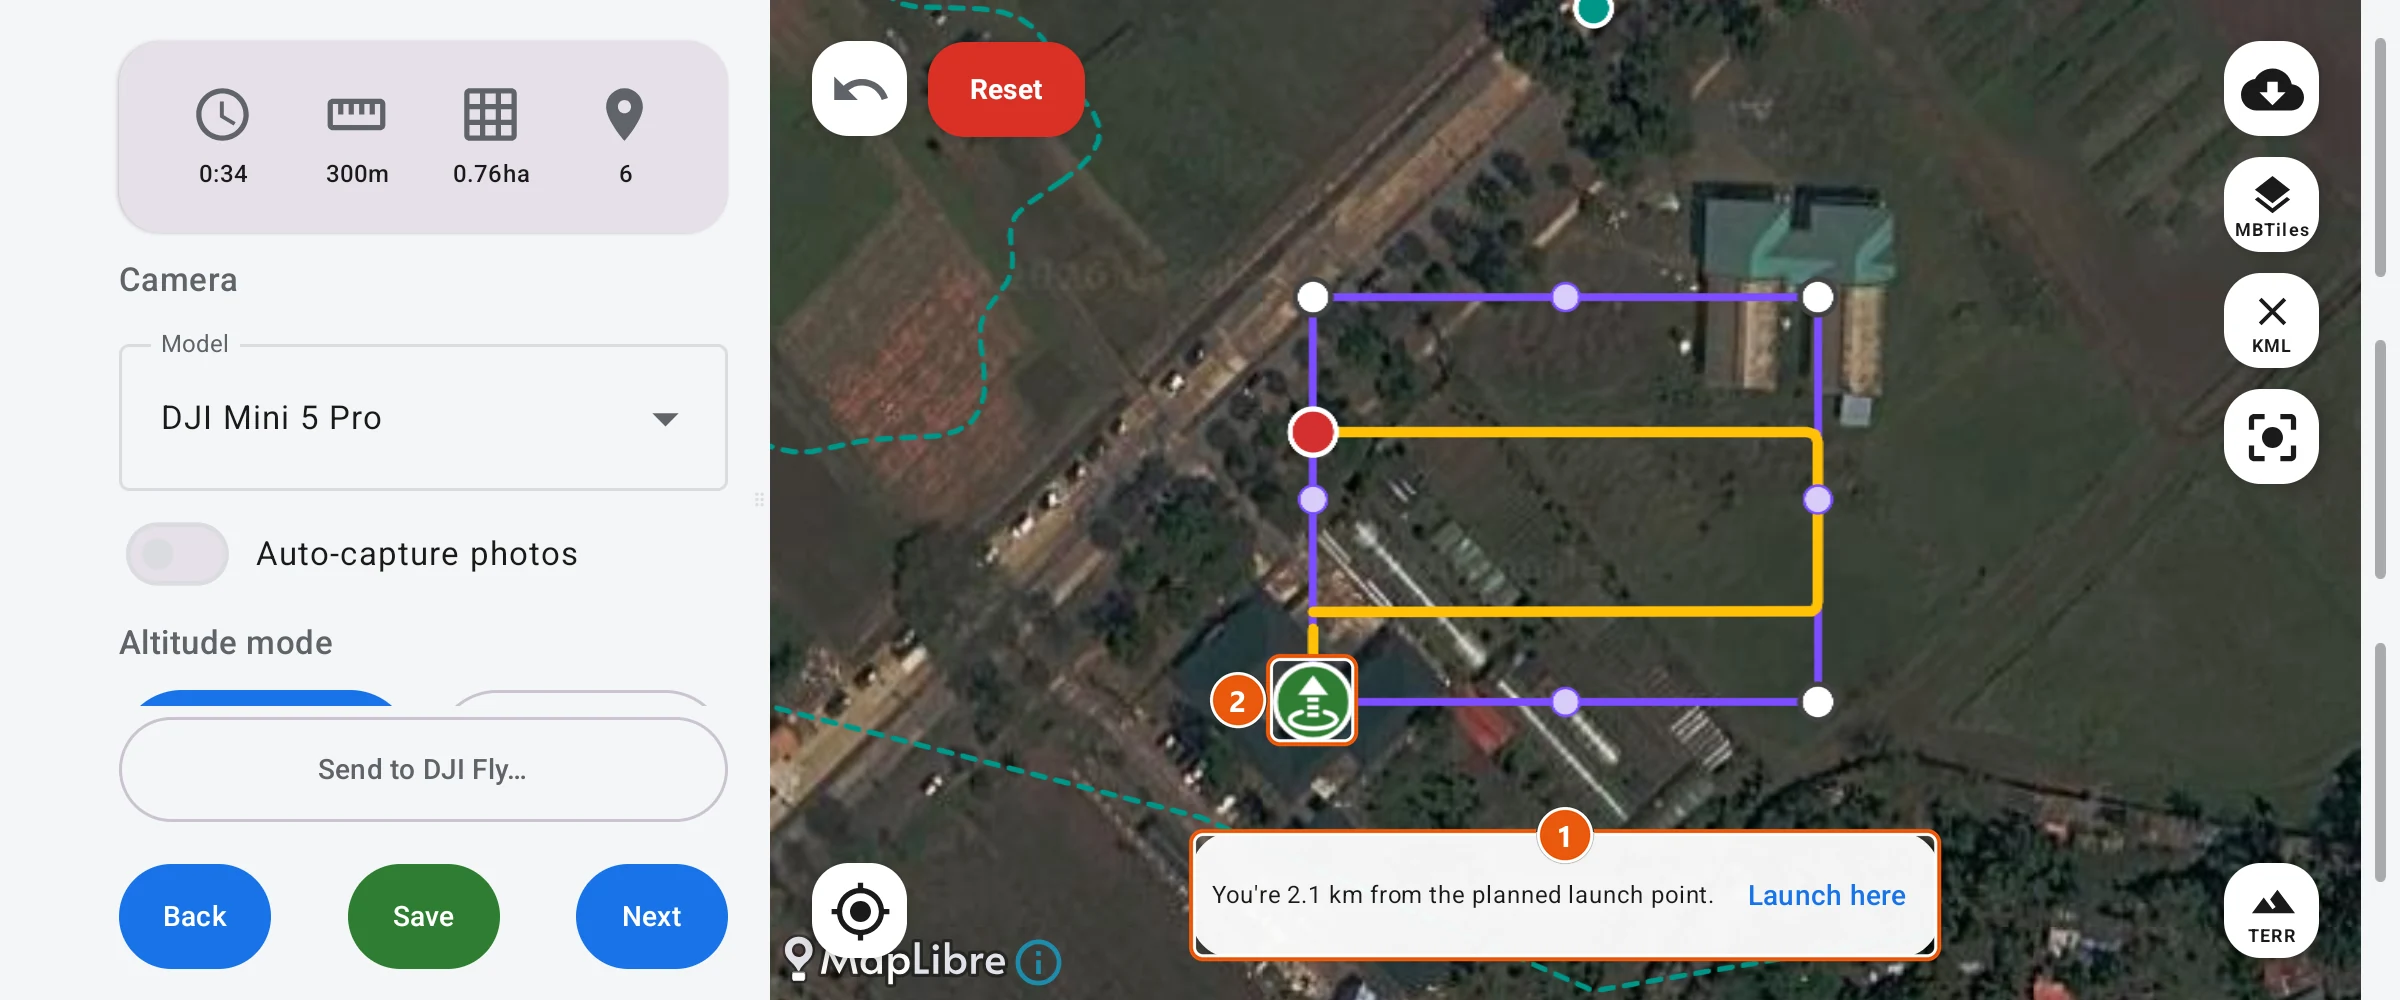
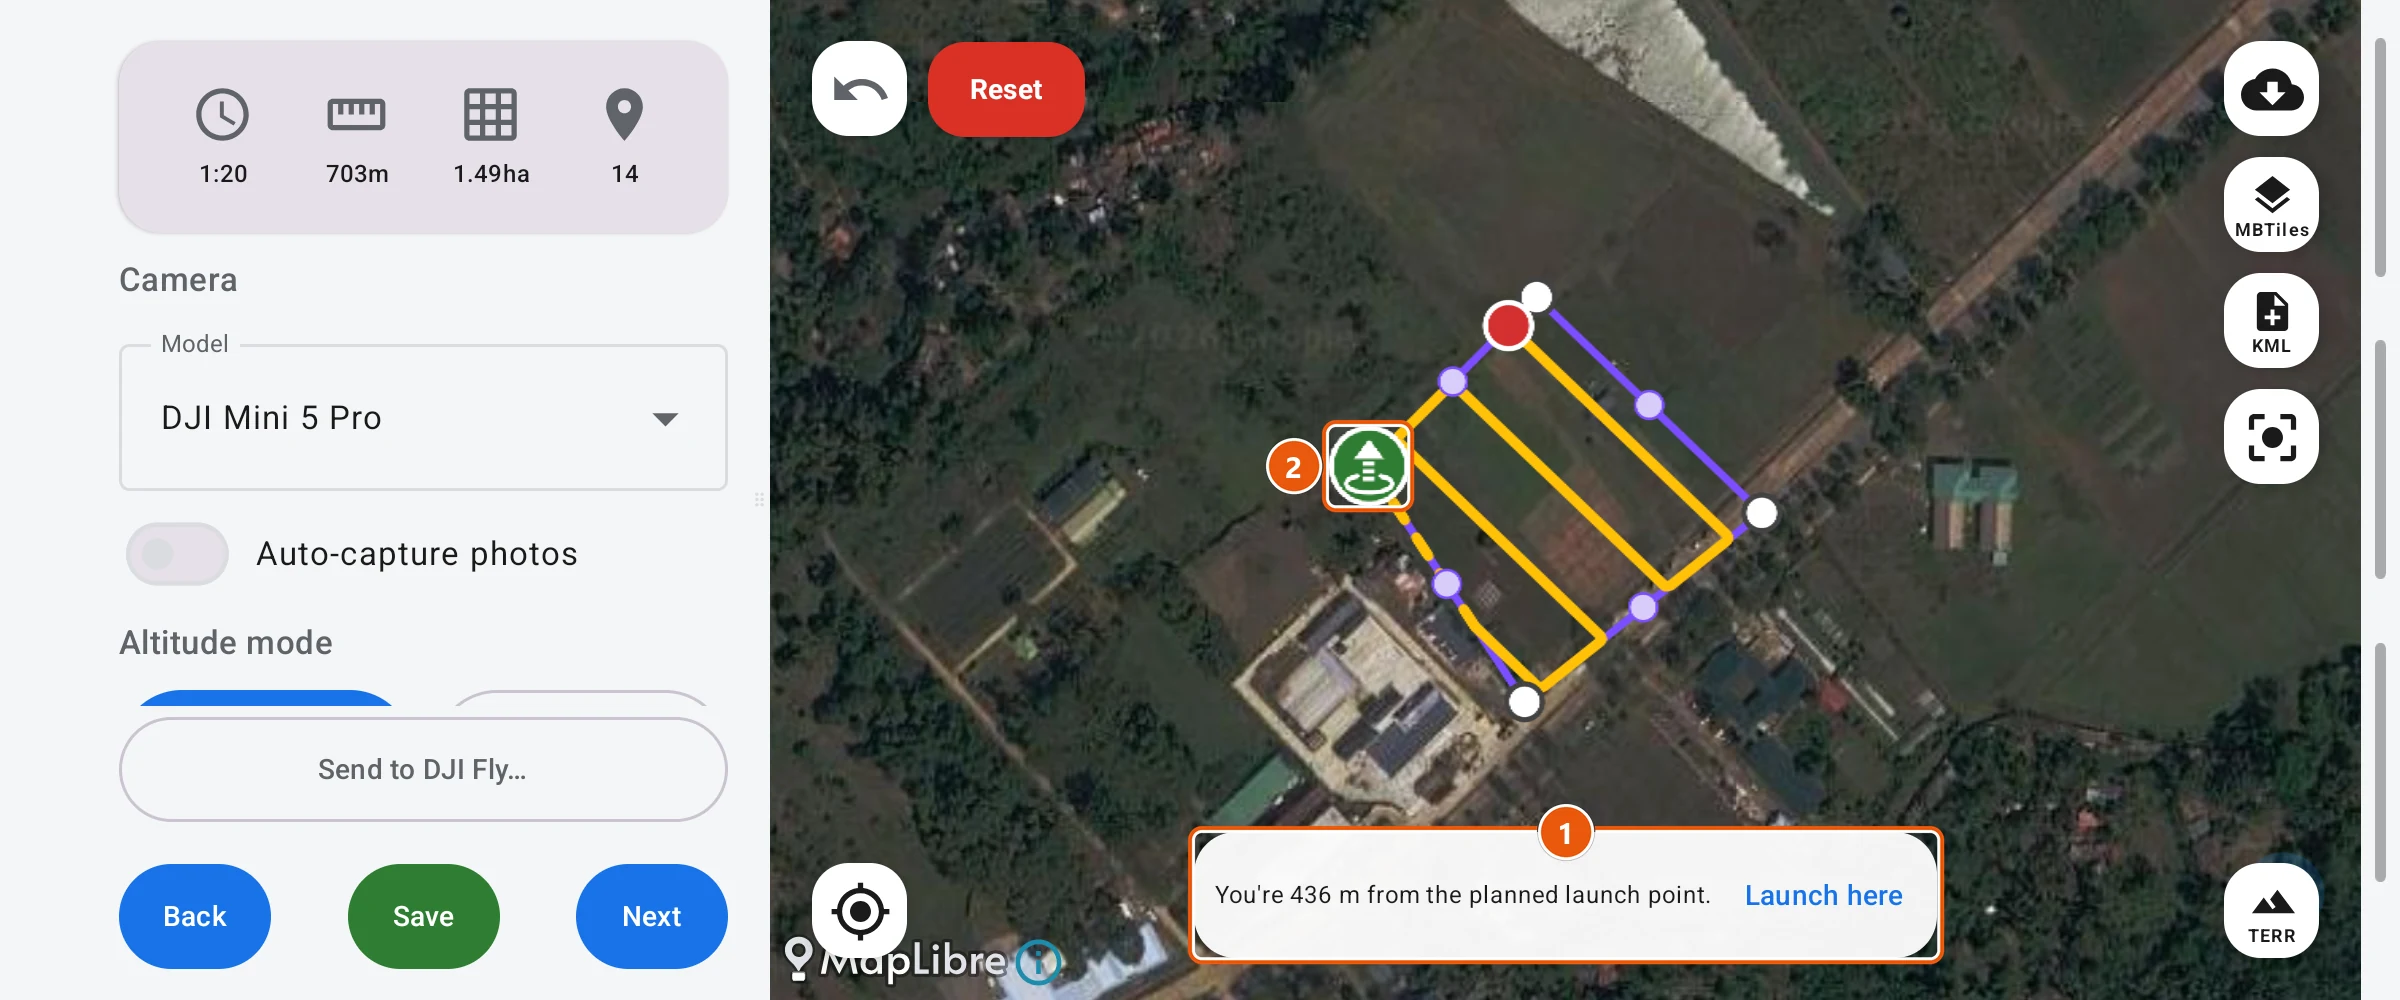
Manual v1.4: planner QR offline-maps dialog, moved-launch height shift, recaptured plan load

diff --git a/docs/index.html b/docs/index.html
@@ -1105,10 +1105,17 @@ footer { margin-top: 5rem; padding-top: 1.5rem; border-top: 1px solid var(--line
     </ul>
     <p>To get a file onto the phone, use <b>Save to Downloads</b> on the Export screen of another device, the web planner's <b>Download KMZ</b>, a USB cable or a messaging app.</p>
     <div class="fig wide">
-      <figure class="shot"><img src="img/loaded_plan.webp" width="2400" height="1000" loading="lazy" alt="A loaded mission on the settings screen, with the message You're 2.1 km from the planned launch point and a Launch here button."></figure>
+      <figure class="shot"><img src="img/loaded_plan.webp" width="2400" height="1000" loading="lazy" alt="A mission from the web planner on the settings screen, with the message You're 436 m from the planned launch point and a Launch here button."></figure>
       <ol class="legend">
         <li><span><b>You're far from the planned launch point.</b> When your GPS position is more than 100&nbsp;m from where the plan takes off, Lite Flight says so. Tap <b>Launch here</b> to take off from where you stand, or move the take-off marker yourself.</span></li>
         <li><span><b>The planned launch point.</b></span></li>
+      </ol>
+    </div>
+    <div class="fig wide">
+      <figure class="shot"><img src="img/launch_shift.webp" width="2400" height="1000" loading="lazy" alt="After Launch here: the panel says Launch 7 m higher than planned: waypoints lowered 7 m, and a dashed line runs from the new launch point to the mission."></figure>
+      <ol class="legend">
+        <li><span><b>The height change</b> Lite Flight made for the new launch point (see below).</span></li>
+        <li><span><b>The new launch point</b>, with the flight out to the mission dashed.</span></li>
       </ol>
     </div>
     <div class="note"><span class="tag">Heights when the launch point moves</span><p>A plan made above take-off assumes the drone takes off where it was planned. If you launch from higher or lower ground, Lite Flight looks up the ground at both places and shifts every waypoint by the difference, so the drone still flies the planned lines at the planned height over the field. The panel says what it did, for example <i>Launch 4&nbsp;m lower than planned: waypoints raised 4&nbsp;m.</i> It needs terrain for both places; without it the mission isn't worked out until you go online or launch from the planned point.</p><p>A terrain-follow plan from the web planner may have been made on a detailed surface model. On the phone its heights are re-adjusted to the phone's own terrain data when you change the mission, and the panel says so. If the phone has no terrain for the site and you haven't changed the route, it flies the planner's heights as they are.</p></div>
@@ -1123,6 +1130,14 @@ footer { margin-top: 5rem; padding-top: 1.5rem; border-top: 1px solid var(--line
       <li>One mission opens on the settings screen, as with <a href="#load-plan">Load mission plan</a>. Several missions from one project are all added to My missions, in their project group, and the map zooms to them.</li>
       <li>If the planner sent the area for offline maps and the phone has no imagery there yet, Lite Flight asks <b>Download imagery and terrain?</b> Tap <b>Download</b> while you're still online. See <a href="#offline-with-mission">Imagery that comes with a mission</a>.</li>
     </ol>
+    <div class="fig tall wide">
+      <figure class="shot"><img src="img/offline_offer.webp" width="838" height="624" loading="lazy" alt="Dialog: Download imagery and terrain? This phone has no imagery for Area mission (2). Imagery from the selected map source, about 2 MB. Buttons Not now and Download."></figure>
+      <ol class="legend">
+        <li><span><b>Source and size.</b> The imagery comes from the map source selected in Lite Flight, at the detail the planner asked for, with terrain for the same area.</span></li>
+        <li><span><b>Not now</b> skips it. You can still download the area yourself in <a href="#imagery">Imagery Download</a>.</span></li>
+        <li><span><b>Download</b> runs in the background; the mission opens straight away.</span></li>
+      </ol>
+    </div>
     <p>The phone needs internet for the scan, so do it at home. The planner keeps a shared mission for a week; scanning the same code again opens the mission you already have. Lite Flight only accepts codes from the Lite Flight Planner.</p>
   </div>
 
